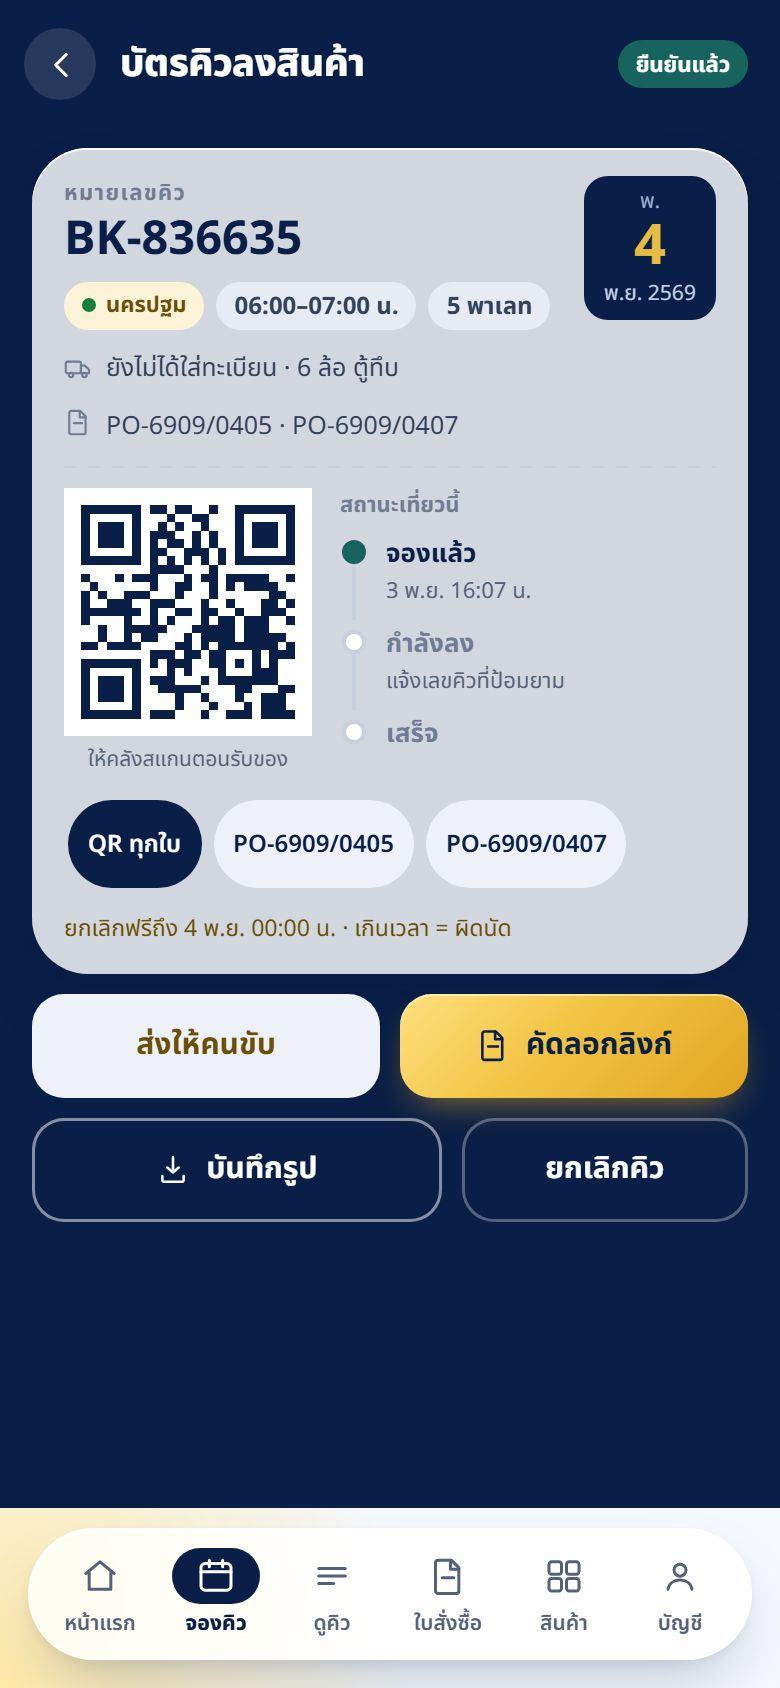
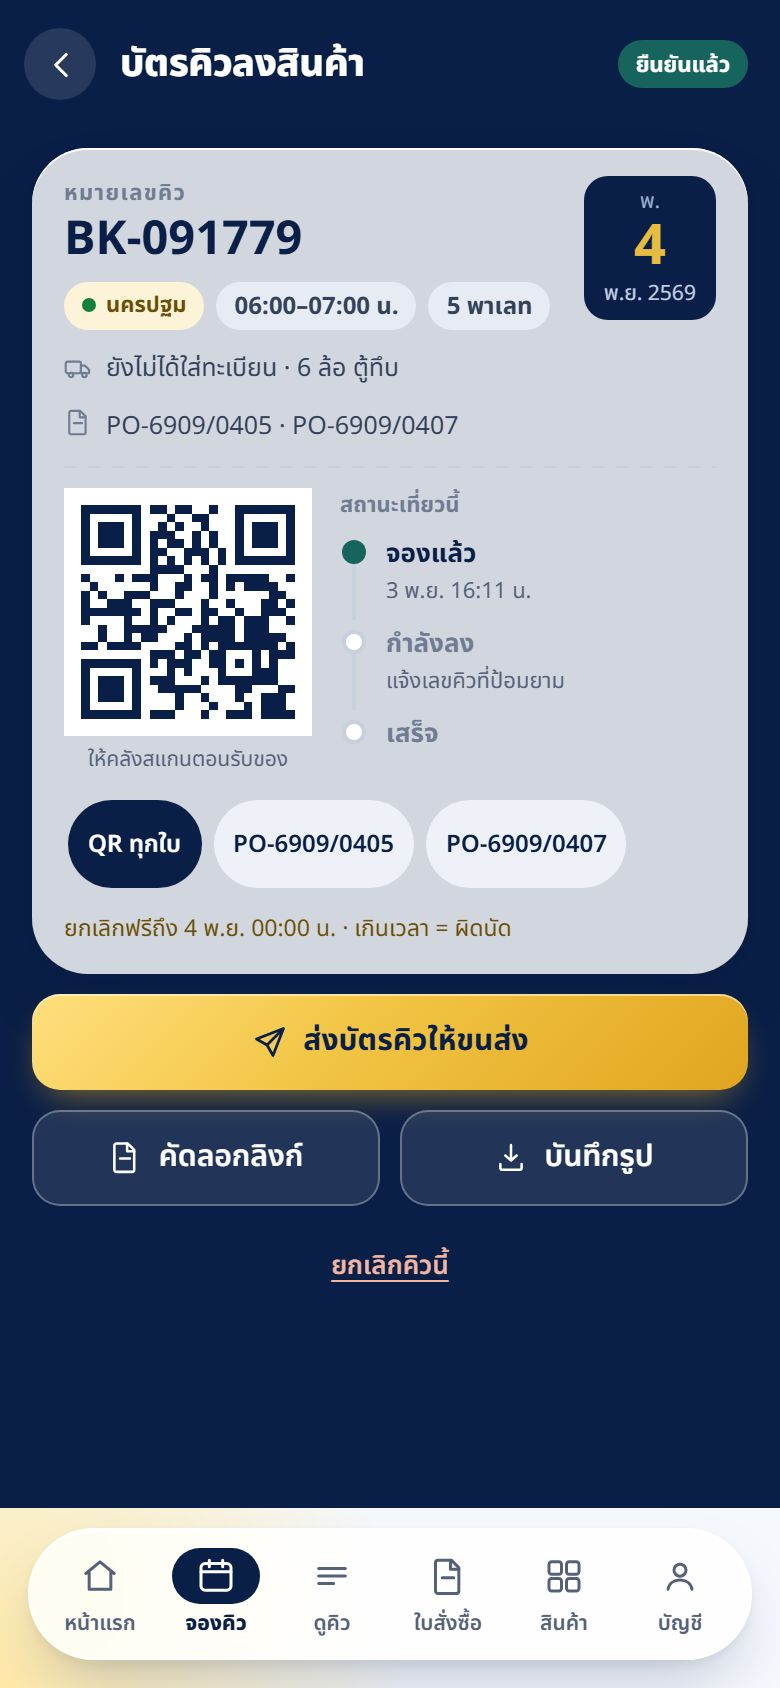
supplylink-guide v1.1.1: บทจองคิว ใช้ปุ่มบัตรคิวแบบใหม่

Changed region(s): [[0.0308, 0.5853, 0.9538, 0.7701], [0.1846, 0.1232, 0.4, 0.154], [0.6154, 0.3389, 0.6462, 0.3697]]

diff --git a/supplylink-guide.html b/supplylink-guide.html
@@ -3,7 +3,7 @@
 <head>
 <meta charset="utf-8">
 <meta name="viewport" content="width=device-width,initial-scale=1,viewport-fit=cover">
-<title>ฝึกใช้ SupplyLink v1.1.0</title>
+<title>ฝึกใช้ SupplyLink v1.1.1</title>
 <link rel="preconnect" href="https://fonts.googleapis.com">
 <link href="https://fonts.googleapis.com/css2?family=Noto+Sans+Thai:wght@400;500;600;700&display=swap" rel="stylesheet">
 <style>
@@ -104,7 +104,7 @@ button{font:inherit;cursor:pointer}
 
 <script>
 (function () {
-  var VER = 'v1.1.0', APP = 'https://liff.line.me/2011693023-xbdsN1K7';
+  var VER = 'v1.1.1', APP = 'https://liff.line.me/2011693023-xbdsN1K7';
   var IMG = {"a2":"supplylink-guide/a2.jpg","d2":"supplylink-guide/d2.jpg","a4":"supplylink-guide/a4.jpg","d3":"supplylink-guide/d3.jpg","d4":"supplylink-guide/d4.jpg","p1":"supplylink-guide/p1.jpg","p1b":"supplylink-guide/p1b.jpg","b2":"supplylink-guide/b2.jpg","b3":"supplylink-guide/b3.jpg","p5":"supplylink-guide/p5.jpg","c2":"supplylink-guide/c2.jpg","c3":"supplylink-guide/c3.jpg","k1":"supplylink-guide/k1.jpg","k2":"supplylink-guide/k2.jpg","k3":"supplylink-guide/k3.jpg","k4":"supplylink-guide/k4.jpg","k5":"supplylink-guide/k5.jpg","k6":"supplylink-guide/k6.jpg","k7":"supplylink-guide/k7.jpg","k9":"supplylink-guide/k9.jpg","k10":"supplylink-guide/k10.jpg","k11":"supplylink-guide/k11.jpg","m1":"supplylink-guide/m1.jpg","m2":"supplylink-guide/m2.jpg","m3":"supplylink-guide/m3.jpg","m4":"supplylink-guide/m4.jpg","m5":"supplylink-guide/m5.jpg","f1":"supplylink-guide/f1.jpg","f2":"supplylink-guide/f2.jpg","f3":"supplylink-guide/f3.jpg","f4":"supplylink-guide/f4.jpg"};                                       /* แทนด้วยรูปตอน build */
   var HAND = '<svg class="hand" viewBox="0 0 48 48" aria-hidden="true"><path d="M19 6c2 0 3.5 1.6 3.5 3.6V22l1-.1V18c0-2 1.6-3.4 3.4-3.4S30.3 16 30.3 18v4.4l1-.1v-2.6c0-1.9 1.5-3.3 3.3-3.3s3.3 1.5 3.3 3.3v3.6l.8-.1c1.8 0 3.3 1.5 3.3 3.3V34c0 6.6-5.4 12-12 12h-3.4c-3.8 0-7.4-1.8-9.6-4.9L8.5 30.6c-1-1.4-.7-3.4.7-4.4 1.4-1 3.3-.8 4.4.5l2 2.4V9.6C15.6 7.6 17.1 6 19 6z" fill="#fff" stroke="#0A1F47" stroke-width="2.4" stroke-linejoin="round"/></svg>';
   var LINECARD = function (title, no, rows, total, btn) {
@@ -146,8 +146,8 @@ button{font:inherit;cursor:pointer}
       { img:'k6', r:[30, 584, 330, 56], h:'ใส่รถ ติ๊กรับทราบ', d:'ทะเบียน/คนขับ ยังไม่รู้เว้นว่างได้ · ติ๊กรับทราบเรื่องแนบใบสั่งซื้อ' },
       { img:'k7', r:[16, 686, 358, 52], h:'กด "ยืนยันการจอง"', d:'จองแล้วได้บัตรคิวทันที' },
       { img:'k9', r:[32, 244, 124, 144], h:'QR บัตรคิว', d:'QR เดียวมีเลขใบสั่งซื้อทุกใบในเที่ยวนี้ ให้คลังสแกนครั้งเดียว · กดชิปเลือกดูทีละใบได้' },
-      { img:'k11', r:[200, 497, 174, 52], h:'คัดลอกลิงก์ให้ขนส่ง', d:'ส่งลิงก์ให้ขนส่ง เปิดได้โดยไม่ต้องล็อกอิน เห็นแค่บัตรใบนี้' },
-      { img:'k10', r:[16, 559, 205, 52], h:'บันทึกรูปบัตรคิว', d:'ได้รูปบัตรคิวพร้อม QR เก็บในเครื่องคนขับได้' }
+      { img:'k11', r:[16, 497, 358, 48], h:'ส่งบัตรคิวให้ขนส่ง', d:'ส่งลิงก์เข้า LINE ขนส่ง เปิดได้โดยไม่ต้องล็อกอิน เห็นแค่บัตรใบนี้ · หรือกดคัดลอกลิงก์' },
+      { img:'k10', r:[200, 555, 174, 48], h:'บันทึกรูปบัตรคิว', d:'ได้รูปบัตรคิวพร้อม QR เก็บในเครื่องคนขับได้' }
     ], end:'วันส่งแจ้งเลขคิวที่ป้อมยาม · สถานะในบัตร จองแล้ว → กำลังลง → เสร็จ · ยกเลิกฟรีก่อนเวลาที่บอกในบัตร' },
     { k:'meet', t:'นัดคุยจัดซื้อ / วางบิล', s:'เลือกเรื่อง คนที่นัด วันเวลา · 5 ขั้น', steps:[
       { img:'m1', r:[114, 126, 78, 44], h:'เลือกเรื่องที่นัด', d:'คุยราคา/สินค้าใหม่ แตะ "จัดซื้อ" · วางบิล/รับเช็ค แตะ "บัญชี"' },
